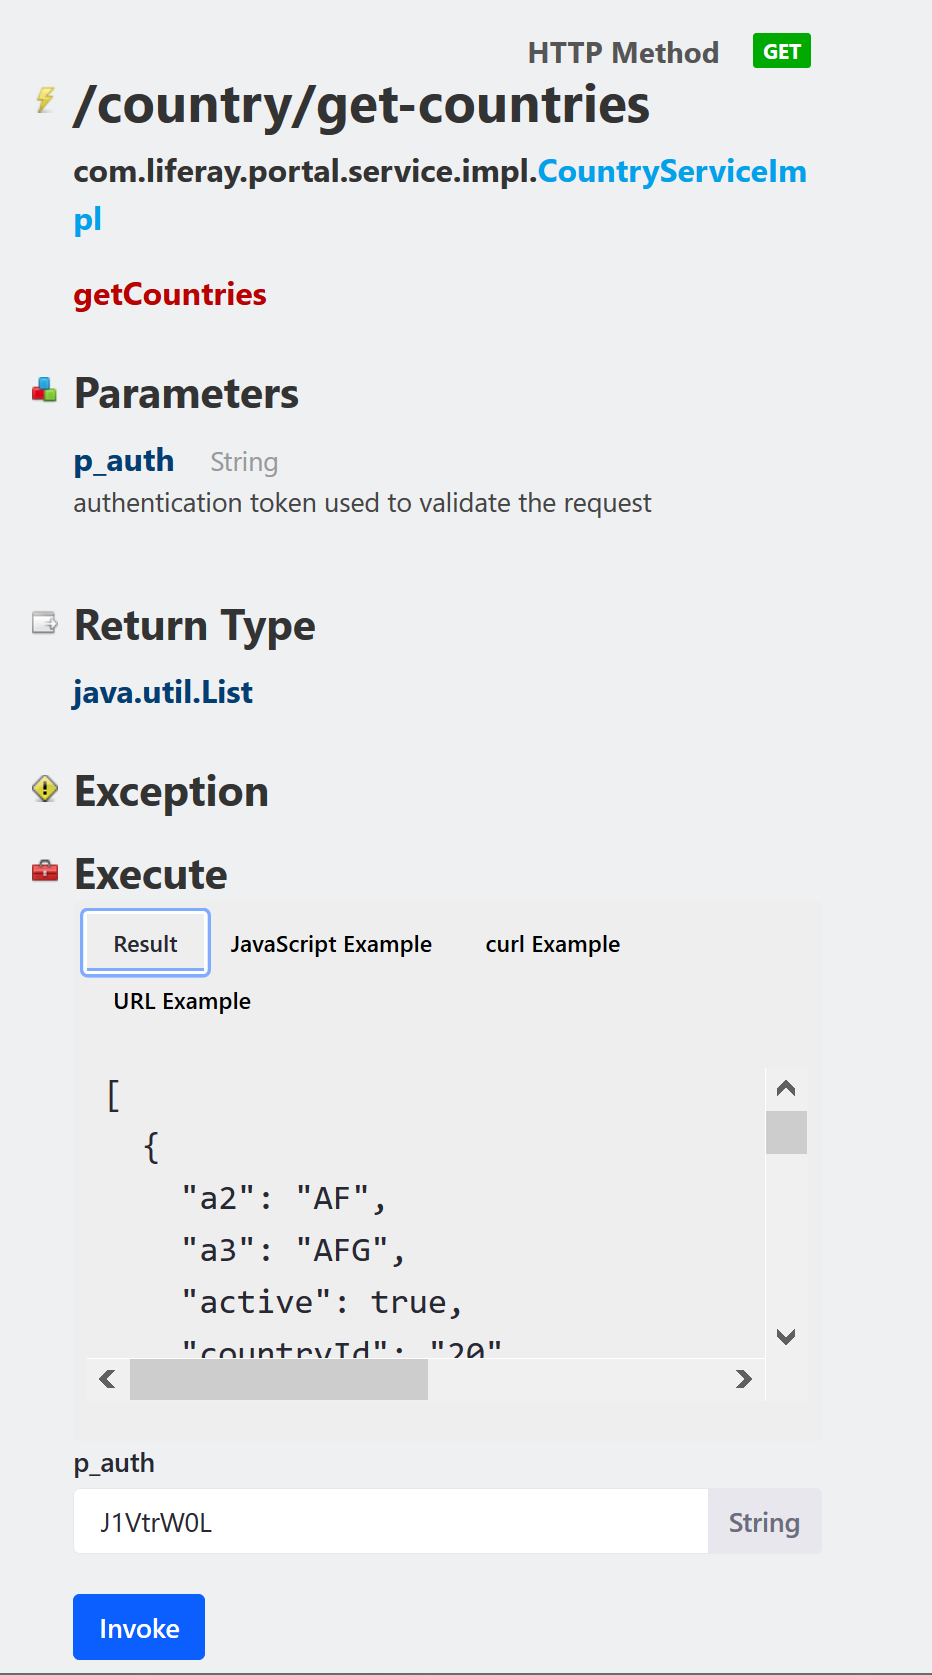
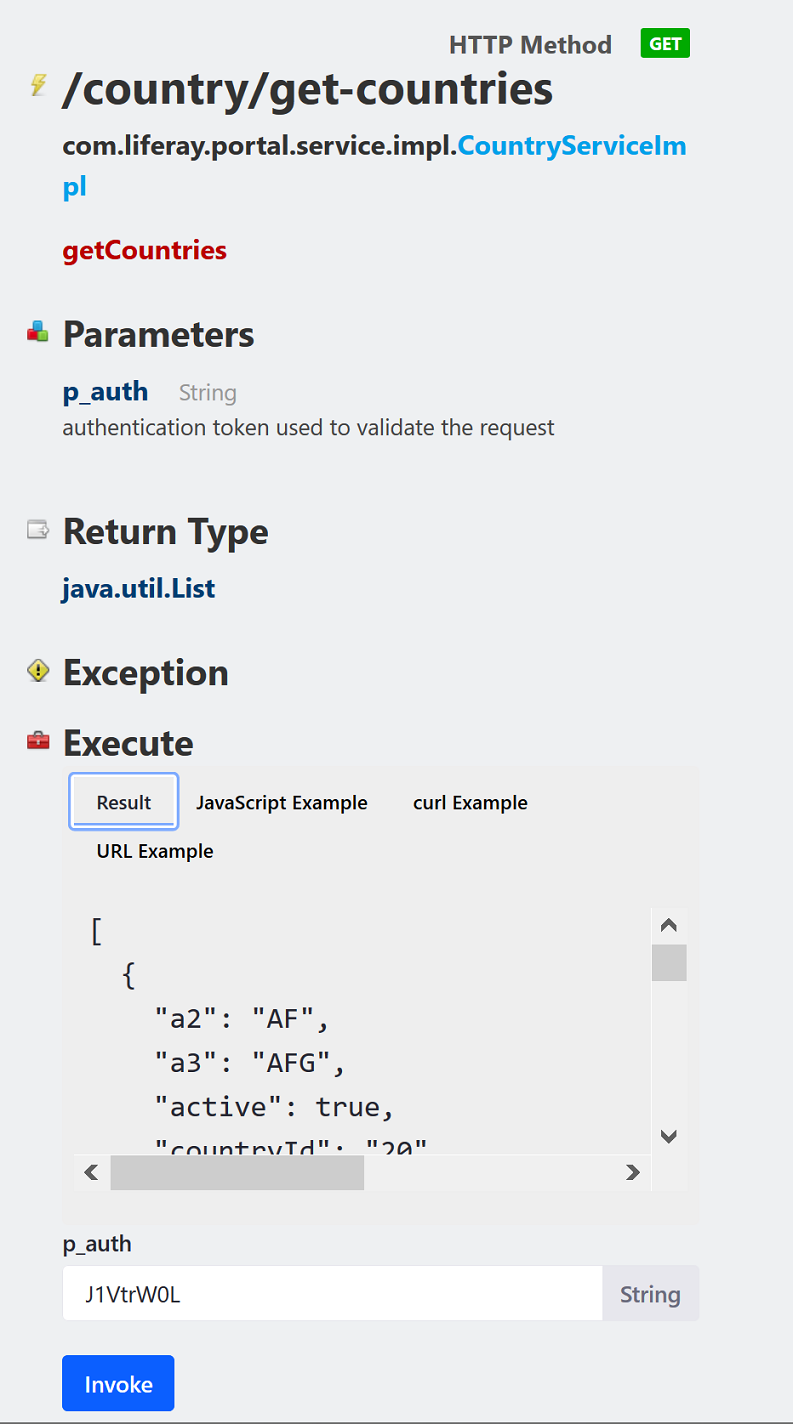
resized image and reorganized enabling local access

Changed region(s): [[0.1816, 0.8961, 0.2119, 0.927], [0.1816, 0.5871, 0.2119, 0.618]]

diff --git a/docs/dxp/7.x/en/process-automation/forms/user-guide/advanced-forms-usage/using-data-providers-to-populate-form-options.md b/docs/dxp/7.x/en/process-automation/forms/user-guide/advanced-forms-usage/using-data-providers-to-populate-form-options.md
@@ -10,20 +10,7 @@ This article walks users through invoking a JSON web service, configuring the da
 
 ## Initial Setup
 
-Invoke the `get-countries` JSON web service (there are two; use either one).
-
-1. Navigate to [http://localhost:8080/api/jsonws](http://localhost:8080/api/jsonws).
-1. Search for _get-countries_.
-    <!-- This screenshot takes up a lot of real estate -->
-
-    ![Search for the get-countries web service.](./using-a-data-provider-to-populate-form-options/images/01.png)
-
-1. Click _Invoke_.
-
-The list of countries is now ready for use.
-
 ### Enabling Access to Data on the Local Network
-<!-- Would this be better as a first step? -->
 
 By default, users cannot configure data providers to use URLs on the local network. This is a good default for security in a production environment, but makes testing more difficult.
 
@@ -36,6 +23,19 @@ To enable local network access from data providers:
     ![Grant access to the local network.](./using-a-data-provider-to-populate-form-options/images/02.png)
 
 1. Click _Save_ when finished.
+
+### Invoking the JSON Web Service for Countries
+
+Invoke the `get-countries` JSON web service (there are two; use either one).
+
+1. Navigate to [http://localhost:8080/api/jsonws](http://localhost:8080/api/jsonws).
+1. Search for _get-countries_.
+
+    ![Search for the get-countries web service.](./using-a-data-provider-to-populate-form-options/images/01.png)
+
+1. Click _Invoke_.
+
+The list of countries is now ready for use.
 
 ## Adding a Basic Data Provider
 

diff --git a/docs/dxp/7.x/en/process-automation/forms/user-guide/advanced-forms-usage/introduction-to-data-providers.md b/docs/dxp/7.x/en/process-automation/forms/user-guide/advanced-forms-usage/introduction-to-data-providers.md
@@ -1,6 +1,6 @@
 # Introduction to Data Providers
 
-The Forms application has a _Select from List_ field that asks respondents to select from a list of options. For some Select from List fields a manually created list makes sense: _T-shirt size_ might be one example. If the list is longer or requires some expertise to populate accurately, a [REST web service](https://en.wikipedia.org/wiki/Representational_state_transfer) is better suited to provide the form options. A _Country of Residence_ field is an example of this. 
+The Forms application has a _Select from List_ field that asks respondents to select from a list of options. For some Select from List fields a manually created list makes sense: _T-shirt size_ might be one example. If the list is longer or requires some expertise to populate accurately, a [REST web service](https://en.wikipedia.org/wiki/Representational_state_transfer) is better suited to provide the form options. A _Country of Residence_ field is an example of this.
 
 ## Registered JSON Web Services
 

diff --git a/docs/dxp/7.x/en/process-automation/forms/user-guide/advanced-forms-usage/form-rules/using-the-autofill-rule.md b/docs/dxp/7.x/en/process-automation/forms/user-guide/advanced-forms-usage/form-rules/using-the-autofill-rule.md
@@ -1,6 +1,6 @@
 # Using the Autofill Rule
 
-The Autofill Rule allows filtering a form field's options based on preconfigured conditions. The data all comes from the same [data provider](../introduction-to-data-providers.md), which can also [provide a list of options]((../using-data-providers-to-populate-form-options.md)) without conditions.
+The Autofill Rule allows filtering a form field's options based on pre-configured conditions. The data all comes from the same [data provider](../introduction-to-data-providers.md), which can also [provide a list of options]((../using-data-providers-to-populate-form-options.md)) without conditions.
 
 Here is an example of how to use the Autofill Rule to filter countries based on geographic region.
 
